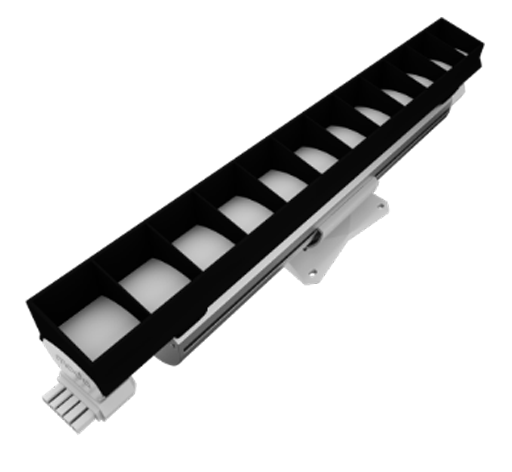
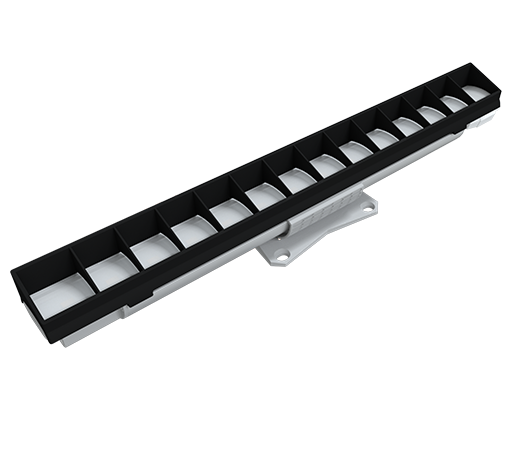
quickship + jobs update

Changed region(s): [[0.0, 0.0297, 1.0, 0.9195]]

diff --git a/js/jobs.js b/js/jobs.js
@@ -14,7 +14,8 @@ function processForm() {
         //"PRM": {"Title": "Production Manager", "jobDate": "August 31st, 2020", "jobLoc": "Las Vegas, Nevada, USA", "Description": "<strong>Responsibilities</strong>     <p>&#8226; Identify market needs for new products and existing product improvements by obtaining industry and technology intel and overseeing involvement of Marketing and Sales resources.</p>        <p>&#8226; Forecast Sales and determine pricing of new products from the design specifications phase to IOQ phase by working with Marketing and Sales to secure their buy in and commitment to product specs, pricing, and sales volume.</p>    <p>&#8226; Analyzes ROI and make recommendations on products worth moving forward.</p>   <p>&#8226; Present team’s product designs and specifications for Executive approval.</p>       <p>&#8226; Oversee product lifecycle, SKUs, and documentation to effectively support business needs and enhance efficiencies.</p> <p>&#8226; Work with engineering teams in the US and Taiwan to develop new product proposals including design sketches, design engineering, line drawings, and new technology recommendations.</p> <br> <strong>Requirements</strong><p>&#8226; 3 years experience in production management.</p> <br> <p><strong>The preferred candidate will be needing to reside within the Las Vegas, Nevada area.</strong></p><br>"},
         //"AE": {"Title": "Application Engineer", "jobDate": "August 31st, 2020", "jobLoc": "Las Vegas, Nevada, USA", "Description": "<strong>Responsibilities</strong>    <p>&#8226; Transform handwritten sketches and field measurements into CAD format.</p>  <p>&#8226; Receive custom quote requests from the sales department and allocate to the proper party.</p>        <p>&#8226; Review and edit potential quotes from team members.</p>      <br><strong>Requirements</strong> <p>&#8226; Strong understanding of 3D modeling.</p>   <p>&#8226; Ability to read and interpret plans and specifications, make accurate architectural drawings and tracings, prepare lists of materials from architectural plans, detect errors and discrepancies in plans and specifications, organize data and prepare reports and specifications in clear and concise form.</p>     <p>&#8226; Use CAD software for architectural design and drafting.</p>  <br><p><strong>The preferred candidate will be needing to reside within the Las Vegas, Nevada area.</strong></p><br>"},
         //"RGC": {"Title": "Regional Sale - Canada", "Description": "<p>The Regional Sales Manager will be responsible for executing strategies that maximize profit and support our inside sales and marketing goals.</p><p>Perform face-to-face sales conferences as well as manage relationships between our representative agencies.</p><p>Increase awareness, appreciation, and understanding of the Moda Light brand.</p><br><strong>Responsibilities:</strong><br><p>Traveling is expected to be 50-70% of the job.</p><p>Target, establish, and nurture relationships with external rep agents, specifiers, distributors, and contractors.</p><p>Develop and execute local and regional sales and marketing initiatives that advance our corporate sales and marketing goals.</p><p>Understand the internal business processes of our rep agency partners and co-develop a tailored strategy to increase market share within the territories they serve.</p><p>Coordinate with other internal teams, departments, and individuals to ensure a high degree of customer satisfaction.</p><p>Planning for and managing all sales promotion activities within the region, including trade shows, seminars, training classes, and customer-driven activities.</p><br><strong>Skills:</strong><p>Ability to learn and adapt quickly.</p><p>Capable of working both independently and collaboratively.</p><p>Experience with customer relationship management software.</p><br><strong>Requirements:</strong><p>Thorough understanding of LED lighting technology.</p><p>Minimum of 3 years outside sales experience required.</p><p>Lighting design and installation experience preferred.</p><br>"},
-        "APAR": {"Title": "Accounts Receivable/Payable Billing Clerk", "jobDate": "March 11th, 2021", "jobLoc": "Las Vegas, Nevada, USA", "Description": "<p>We are looking for a detail-oriented, reliable Accounts Receivable/Payable Billing Clerk to correspond with customers regarding payments, issue invoices, and pays invoices by verifying and completing payable and receivable transactions. You should be able to multitask and be able to deal with customer concerns in a professional manner.</p><br><p>The potential candidate should have a good grasp of accounting practices and strong organizational skills. An outstanding candidate will demonstrate excellent communication skills and a knack for working with numbers.</p><br><strong>Responsibilities</strong><br><p>&#8226; Prepares work to be accomplished by gathering and sorting documents and related information.</p><p>&#8226; Creating and issuing invoices to customers.</p><p>&#8226; Processing credit memos.</p><p>&#8226; Following up on outstanding payments and answering customer queries.</p><p>&#8226; Monitoring all customer payments and preparing monthly billing reports.</p><p>&#8226; Updating accounting records with issued invoices, processed payments, new balances, and customer contact information.</p><p>&#8226; Pays invoices by verifying transaction information; scheduling and preparing disbursements; obtaining authorization of payment.</p><p>&#8226; Obtains revenue by verifying transaction information; computing charges and refunds; preparing and mailing invoices; identifying delinquent accounts and insufficient payments.</p><p>&#8226; Collects revenue by reminding delinquent accounts, notifying customers of insufficient payments.</p><p>&#8226; Maintains accounting ledgers by posting account transactions</p><p>&#8226; Resolves account discrepancies by investigating documentation, payments, or adjustments.</p><p>&#8226; Maintains financial security by following internal accounting controls.</p> <p>&#8226; Secures financial information by completing data base backups.</p><p>&#8226; Maintains financial historical records by filing accounting documents.</p><p>&#8226; Contributes to team effort by accomplishing related results as needed.</p>     <br><strong>Skills &amp; Qualifications</strong><p>&#8226; High School Diploma/GED.</p><p>&#8226; Previous experience as an accounts receivable/payable billing clerk or in similar role.</p><p>&#8226; Knowledge of accounting software such as NetSuite.</p><p>&#8226; Working knowledge of accounting standards and regulations.</p> <p>&#8226; Strong communication, organizational and time-management skills.</p> <p>&#8226; Ability to work efficiently under pressure.</p> <p>&#8226; Proficient in Microsoft Office.</p> <p>&#8226; Excellent Math Skills.</p> <p>&#8226; Strong attention to detail.</p><br><br><p>Office hours are form 7:30am - 4:00pm, Monday thru Friday.<br>Competitive employee benefits package is provided after probationary period.</p><br>"},
+        "APAR": {"Title": "Accounts Receivable/Payable Billing Clerk", "jobDate": "March 11th, 2021", "jobLoc": "Las Vegas, Nevada, USA", "Description": "<p>We are looking for a detail-oriented, reliable Accounts Receivable/Payable Billing Clerk to correspond with customers regarding payments, issue invoices, and pays invoices by verifying and completing payable and receivable transactions. You should be able to multitask and be able to deal with customer concerns in a professional manner.</p><br><p>The potential candidate should have a good grasp of accounting practices and strong organizational skills. An outstanding candidate will demonstrate excellent communication skills and a knack for working with numbers.</p><br><strong>Responsibilities</strong><br><p>&#8226; Prepares work to be accomplished by gathering and sorting documents and related information.</p><p>&#8226; Creating and issuing invoices to customers.</p><p>&#8226; Processing credit memos.</p><p>&#8226; Following up on outstanding payments and answering customer queries.</p><p>&#8226; Monitoring all customer payments and preparing monthly billing reports.</p><p>&#8226; Updating accounting records with issued invoices, processed payments, new balances, and customer contact information.</p><p>&#8226; Pays invoices by verifying transaction information; scheduling and preparing disbursements; obtaining authorization of payment.</p><p>&#8226; Obtains revenue by verifying transaction information; computing charges and refunds; preparing and mailing invoices; identifying delinquent accounts and insufficient payments.</p><p>&#8226; Collects revenue by reminding delinquent accounts, notifying customers of insufficient payments.</p><p>&#8226; Maintains accounting ledgers by posting account transactions.</p><p>&#8226; Resolves account discrepancies by investigating documentation, payments, or adjustments.</p><p>&#8226; Maintains financial security by following internal accounting controls.</p> <p>&#8226; Secures financial information by completing data base backups.</p><p>&#8226; Maintains financial historical records by filing accounting documents.</p><p>&#8226; Contributes to team effort by accomplishing related results as needed.</p>     <br><strong>Skills &amp; Qualifications</strong><p>&#8226; High School Diploma/GED.</p><p>&#8226; Previous experience as an accounts receivable/payable billing clerk or in similar role.</p><p>&#8226; Knowledge of accounting software such as NetSuite.</p><p>&#8226; Working knowledge of accounting standards and regulations.</p> <p>&#8226; Strong communication, organizational and time-management skills.</p> <p>&#8226; Ability to work efficiently under pressure.</p> <p>&#8226; Proficient in Microsoft Office.</p> <p>&#8226; Excellent Math Skills.</p> <p>&#8226; Strong attention to detail.</p><br><br><p>Office hours are form 7:30am - 4:00pm, Monday thru Friday.<br>Competitive employee benefits package is provided after probationary period.</p><br>"},
+        "GD": {"Title": "Graphic Designer - Technical", "jobDate": "March 16th, 2021", "jobLoc": "Las Vegas, Nevada, USA", "Description": "<p>MODA Light is an innovative architectural lighting company and is currently seeking a Graphic Designer to join its team. This position collaborates with members of, product development, engineering and senior leadership to design compliant, compelling, clear and concise technical documents such as specification sheets, product guides and installation instructions. Strong candidates will have a positive attitude, strong work ethic, and excellent communication skills both written and verbally.</p><br><strong>Qualifications/Skills</strong><br><p>&#8226; Proficient with programs in Adobe Creative Suite (Illustrator, Photoshop, InDesign, Lightroom)</p><p>&#8226; Proficiency in Cinema 4D, BarTender or other related software a plus</p><p>&#8226; Possess a high level of precision, dexterity, and attention to detail</p><p>&#8226; Strong graphic design, layout, and analytical skills</p><p>&#8226; Strong presentation, verbal, visual and written communication skills</p><p>&#8226; Ability to work independently and deadline-oriented</p><p>&#8226; Knowledgeable in desktop publishing tools and graphic design software</p><p>&#8226; Handles constructive criticism well</p><p>&#8226; Time-management skills</p><p>&#8226; Acute vision</p>  <br><strong>Education &amp; Experience Requirements</strong><p>&#8226; Bachelor's degree in Art, Graphic Design, Industrial Design, or a related field</p><p>&#8226; 3 - 5 years of experience in graphic design or related field</p><p>&#8226; Portfolio &amp; Samples Work if available</p><p>&#8226; Intermediate proficiency with HTML, CSS &amp; JavaScript a strong plus</p>  <br><br><p>Office hours are form 7:30am - 4:00pm, Monday thru Friday.</p><br>"},
         
         }
 

diff --git a/quickship.html b/quickship.html
@@ -89,12 +89,74 @@ $(document).ready(function(){
     <hr class="qs-HR" style="width: 70%; padding-top: 20px; padding-bottom: 20px;">
 
     <div id="qs-Products" style="padding-bottom: 50px;">
+
+        <div id="qs-NanoCove">
+            <h1 class="qs-ProdHeader" style="padding: 20px;">Nano Cove ELV<br>White Light</h1>
+            
+            <div id="qs-ContImg" style="padding-top: 10px;" class=" col-md-4 col-lg-4">
+                <center>
+                    <img src="images/Quickship/Product Images/qs-nano.png" alt="modaNanoCoveWL" draggable="false">
+
+                    <a target="_blank" href="resources/Specification/Cove/Moda Nano Cove/MNCI-SPEC-GUIDE.pdf">
+                        <img id="specIcon" src="images/Icons/icon-quick-spec-blk.svg">
+                            <p>Specification</p>
+                    </a>
+                </center>
+            </div>
+
+            <ul class="qs-ContGrid" class=" col-md-8 col-lg-8">
+
+            <li style="font-weight: 900; border-bottom: 1px solid black;">DESCRIPTION</li>
+            <li style="font-weight: 900; border-bottom: 1px solid black;">&ThickSpace;</li>
+            <li style="font-weight: 900; border-bottom: 1px solid black;">ORDERING NUMBER</li>
+            
+            
+            <li>MODA-NANO-COVE-INTERIOR-SO-W-ELV-27K-HCRI-1FT</li>
+            <li>&ThickSpace;</li>
+            <li>MNCI-S-SX-W-E-27H-1</li>
+
+            <li class="alt">MODA-NANO-COVE-INTERIOR-SO-W-ELV-3K-HCRI-1FT</li>
+            <li>&ThickSpace;</li>
+            <li class="alt">MNCI-S-SX-W-E-3H-1</li>
+
+            <li>MODA-NANO-COVE-INTERIOR-SO-W-ELV-35K-HCRI-1FT</li>
+            <li>&ThickSpace;</li>
+            <li>MNCI-S-SX-W-E-35H-1</li>
+
+            <li class="alt">MODA-NANO-COVE-INTERIOR-SO-W-ELV-4K-HCRI-1FT</li>
+            <li>&ThickSpace;</li>
+            <li class="alt">MNCI-S-SX-W-E-4H-1</li>
+
+            <li>MODA-NANO-COVE-INTERIOR-SO-W-ELV-27K-HCRI-4FT</li>
+            <li>&ThickSpace;</li>
+            <li>MNCI-S-SX-W-E-27H-4</li>
+
+            <li class="alt">MODA-NANO-COVE-INTERIOR-SO-W-ELV-3K-HCRI-4FT</li>
+            <li>&ThickSpace;</li>
+            <li class="alt">MNCI-S-SX-W-E-3H-4</li>
+
+            <li>MODA-NANO-COVE-INTERIOR-SO-W-ELV-35K-HCRI-4FT</li>
+            <li>&ThickSpace;</li>
+            <li>MNCI-S-SX-W-E-35H-4</li>
+            
+
+            <li class="alt">MODA-NANO-COVE-INTERIOR-SO-W-ELV-4K-HCRI-4FT</li>
+            <li>&ThickSpace;</li>
+            <li class="alt">MNCI-S-SX-W-E-4H-4</li>
+
+            
+        </ul>
+
+        </div>
+
+        <!---->
+
         <div id="qs-MiniCove">
             <h1 class="qs-ProdHeader" style="padding: 20px;">Mini Cove ELV<br>White Light</h1>
             
             <div id="qs-ContImg" style="padding-top: 10px;" class=" col-md-4 col-lg-4">
                 <center>
-                    <img src="images/Cove/Mini Cove White Light/MMCGI 1FT V2 Front w_shadows.png" alt="modaMiniCoveWL" draggable="false">
+                    <img src="images/Quickship/Product Images/qs-MMC.png" alt="modaMiniCoveWL" draggable="false">
 
                     <a target="_blank" href="resources/Specification/Moda_Mini_Cove_Interior_White_Light_ELV_Specification.pdf">
                         <img id="specIcon" src="images/Icons/icon-quick-spec-blk.svg">
@@ -105,7 +167,7 @@ $(document).ready(function(){
 
         <ul class="qs-ContGrid" class=" col-md-8 col-lg-8">
 
-            <li style="font-weight: 900; border-bottom: 1px solid black;">FIXTURE</li>
+            <li style="font-weight: 900; border-bottom: 1px solid black;">DESCRIPTION</li>
             <li style="font-weight: 900; border-bottom: 1px solid black;">ORDERING NUMBER</li>
             <li style="font-weight: 900; border-bottom: 1px solid black;">PART NUMBER</li>
             
@@ -185,7 +247,7 @@ $(document).ready(function(){
 
     <div id="qsAccessories">
         <div id="qs-acc1">
-            <h1 class="qs-ProdHeader" style="padding: 10px;">Mini Cove ELV Accessories<br>White Light</h1>
+            <h1 class="qs-ProdHeader" style="padding: 10px;">Nano/Mini Cove ELV Accessories<br>White Light</h1>
 
             <div id="qs-innerAccs">
 
@@ -201,7 +263,7 @@ $(document).ready(function(){
 
                 <ul class="qs-ContGrid" class="col-md-8 col-lg-8">
 
-                    <li style="font-weight: 900; border-bottom: 1px solid black;">FIXTURE</li>
+                    <li style="font-weight: 900; border-bottom: 1px solid black;">DESCRIPTION</li>
                     <li style="font-weight: 900; border-bottom: 1px solid black;">ORDERING NUMBER</li>
                     <li style="font-weight: 900; border-bottom: 1px solid black;">PART NUMBER</li>
 
@@ -229,6 +291,8 @@ $(document).ready(function(){
 
         <div class="qs-BCont" style="padding: 70px;"></div>
             
+            <h1 class="qs-ProdHeader" style="padding: 20px;">Mini Cove<br>Louver</h1>
+
             <div id="qs-innerAccs">
                 <div id="qs-AccContImg" style="padding-top: 30px; " class="col-md-4 col-lg-4" style="float: left;">
                     <center>
@@ -245,23 +309,28 @@ $(document).ready(function(){
                     -->
                 </div>
 
-                <ul class="qs-ContGrid2Col" class=" col-md-8 col-lg-8">
+                <ul class="qs-ContGrid" class=" col-md-8 col-lg-8">
 
-                    <li style="font-weight: 900; border-bottom: 1px solid black;">FIXTURE</li>
+                    <li style="font-weight: 900; border-bottom: 1px solid black;">DESCRIPTION</li>
+                    <li style="font-weight: 900; border-bottom: 1px solid black;">&ThickSpace;</li>
                     <li style="font-weight: 900; border-bottom: 1px solid black;">PART NUMBER</li>
 
-                    <li>MODA-MINI-COVE-SYMMETRIC LOUVRE - 1FT - BLACK</li>
+                    <li>MODA-MINI-COVE-SYMMETRIC LOUVER - 1FT - BLACK</li>
+                    <li>&ThickSpace;</li>
                     <li>299-4230</li>
 
-                    <li class="alt">MODA-MINI-COVE-ASYMMETRIC LOUVRE - 1FT - BLACK</li>
+                    <li class="alt">MODA-MINI-COVE-ASYMMETRIC LOUVER - 1FT - BLACK</li>
+                    <li>&ThickSpace;</li>
                     <li class="alt">299-4231</li>
                 
 
-                    <li>MODA-MINI-COVE-HONEYCOMB LOUVRE - 1FT - BLACK</li>
+                    <li>MODA-MINI-COVE-HONEYCOMB LOUVER - 1FT - BLACK</li>
+                    <li>&ThickSpace;</li>
                     <li>299-4232</li>
                 
 
-                    <li class="alt">MODA-MINI-COVE-BLADE LOUVRE - 1FT - BLACK</li>
+                    <li class="alt">MODA-MINI-COVE-BLADE LOUVER - 1FT - BLACK</li>
+                    <li>&ThickSpace;</li>
                     <li class="alt">299-4233</li>
                                 
                 </ul>
@@ -274,11 +343,15 @@ $(document).ready(function(){
                 <div id="qs-AccContImg" style="padding-top: -40px; " class="col-md-4 col-lg-4" style="float: left;">
                     <center>
                         <img src="images/Quickship/Product Images/qs-Track.png" alt="MiniCoveAcc" draggable="false">
+                        <img src="images/Quickship/Product Images/qs-Track-conn2.png" alt="MiniCoveAcc" draggable="false">
                         <br>
-                        <img src="images/Quickship/Product Images/qs-Bridge.png" alt="MiniCoveAcc" draggable="false">
+                        <img src="images/Quickship/Product Images/qs-Track2.png" alt="MiniCoveAcc" draggable="false">
+                        <img src="images/Quickship/Product Images/qs-Track-conn.png" alt="MiniCoveAcc" draggable="false">
+                        <br>
+                        <img src="images/Quickship/Product Images/qs-Bridge.png" alt="MiniCoveAcc" draggable="false" style="padding: 10px;">
                         <br>
                         <a target="_blank" href="resources/Specification/Controls/Converters/Moda Bridge 1 2.0/Moda_Bridge_1_2.0_Exterior_Specification.pdf">
-                            <img id="specIcon" src="images/Icons/icon-quick-spec-blk.svg" style="width: 35px !important;">
+                            <img id="specIcon" src="images/Icons/icon-quick-spec-blk.svg" style="width: 30px !important;">
                                 <p>Specification</p>
                         </a>
                     </center>
@@ -286,17 +359,29 @@ $(document).ready(function(){
 
                 <ul class="qs-ContGrid" class=" col-md-8 col-lg-8">
 
-                    <li style="font-weight: 900; border-bottom: 1px solid black;">FIXTURE</li>
+                    <li style="font-weight: 900; border-bottom: 1px solid black;">DESCRIPTION</li>
                     <li style="font-weight: 900; border-bottom: 1px solid black;">ORDER NUMBER</li>
                     <li style="font-weight: 900; border-bottom: 1px solid black;">PART NUMBER</li>
 
-                    <li>Mounting Track - Five 4FT sections totaling 20FT</li>
+                    <li>MINI COVE 20FT Track Gray</li>
                     <li>MMC-20-TRACK-1-S1-G</li>
                     <li>299-3200</li>
 
-                    <li class="alt">Bridge<sup>1</sup> 2.0 US - Covert 0-10V to ELV</li>
-                    <li class="alt">MODA-BRIDGE-1-S2-S</li>
-                    <li class="alt">250-0000</li>
+                    <li class="alt">NANO COVE 20FT Track White</li>
+                    <li class="alt">MNCI-MT-SX-W</li>
+                    <li class="alt">&ThickSpace;</li>
+
+                    <li>MINI COVE Track Connector Gray</li>
+                    <li>&ThickSpace;</li>
+                    <li>299-3202</li>
+
+                    <li class="alt">NANO COVE Track Connector White</li>
+                    <li class="alt">MNCI-TC-SX-W</li>
+                    <li class="alt">&ThickSpace;</li>
+
+                    <li>Bridge<sup>1</sup> 2.0 US - Covert 0-10V to ELV</li>
+                    <li>MODA-BRIDGE-1-S2-S</li>
+                    <li>250-0000</li>
                                 
                 </ul>
             

diff --git a/job-listings.html b/job-listings.html
@@ -116,7 +116,6 @@ ga('send', 'pageview');
         <input type="hidden" name="v" value="APAR" />
     </form>
 
-
     <button class="listBut" type="submit" form="submitJobAPAR">
         <div class="row">
             <div class="col-lg-5"><p style="font-weight: 400;">Accounts Receivable&sol;Payable Billing Clerk</p></div>
@@ -125,6 +124,20 @@ ga('send', 'pageview');
         </div>
     </button>
 
+
+
+
+    <form action="#/job-description" id="submitJobGD">
+        <input type="hidden" name="v" value="GD" />
+    </form>
+
+    <button class="listBut" type="submit" form="submitJobGD">
+        <div class="row">
+            <div class="col-lg-5"><p style="font-weight: 400;">Graphic Designer - Technical</p></div>
+            <div class="col-lg-4"><p>March 16, 2021</p></div>
+            <div class="col-lg-3"><p>Las Vegas, Nevada</p></div>
+        </div>
+    </button>
 
 
 </div>

diff --git a/css/global.css b/css/global.css
@@ -238,7 +238,7 @@ a#qs-ContactButton{
 }
 
 
-#qs-MiniCove h1{
+#qs-MiniCove h1, #qs-NanoCove h1{
 	font-size: 18px;
 	font-weight: 400;
 }
